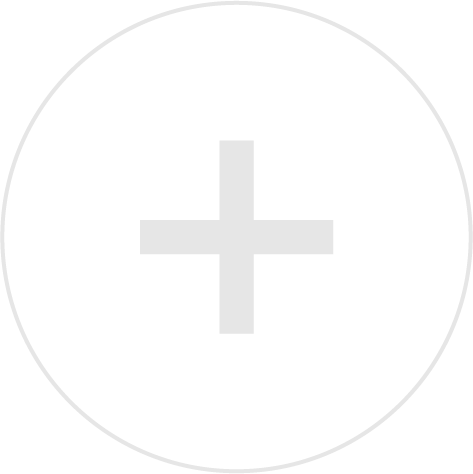
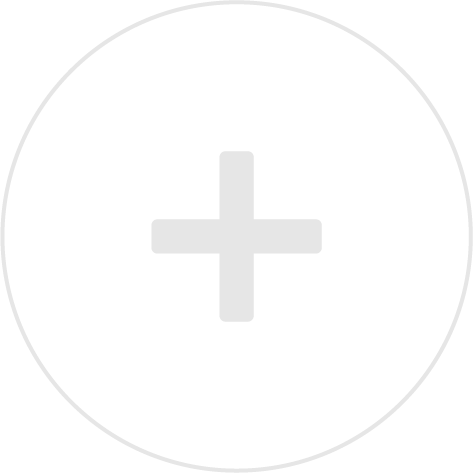
add

diff --git a/app/components/VaultList.global.css b/app/components/VaultList.global.css
@@ -47,3 +47,15 @@
   padding: 0px;
 
 }
+.vault-plus:hover {
+  width: 100%;
+  height:100%;
+  background-image:url(../assets/add_button_hover.png);
+  background-size: 100px 100px;
+  background-repeat: no-repeat;
+  margin-left: 80px;
+  margin-right: 90px;
+  margin-top: 40px;
+  padding: 0px;
+
+}
